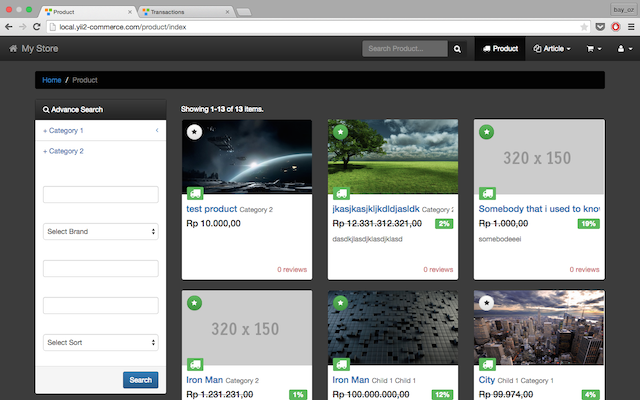
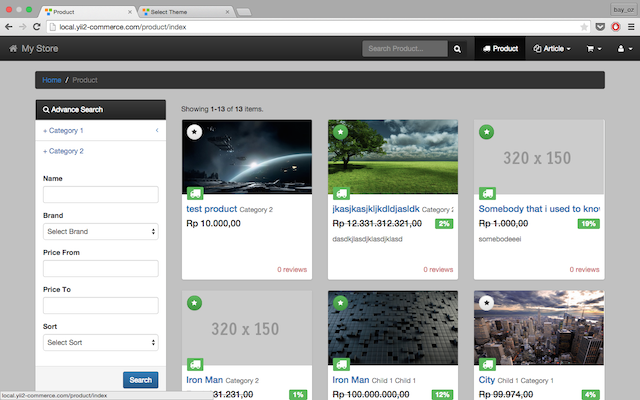
Improve Dark Theme

Changed region(s): [[0.0, 0.15, 1.0, 1.0], [0.25, 0.03, 0.2812, 0.06]]

diff --git a/frontend/themes/dark/web/css/site.css b/frontend/themes/dark/web/css/site.css
@@ -1,9 +1,8 @@
 .breadcrumb {
-    background: #000;
+    background: #333;
 }
 .wrap {
-    background: #3c3c3c;
-    color: #fff;
+    background: #c1c1c1;
     min-height: 100%;
     height: auto;
     margin: 0 auto -250px;
@@ -19,7 +18,7 @@
     color: #ddd;
 }
 .panel {
-    border: 1px solid #222;
+    border: 1px solid #bbb;
 }
 .navbar-form .btn {
     background: #222;
@@ -32,7 +31,7 @@
     color: #f5f5f5;
 }
 .thumbnail{
-    border-color: #3c3c3c;
+    border: 1px solid #bbb;
 }
 .thumbnail:hover {
     box-shadow: 0 0 15px #222;
@@ -44,23 +43,20 @@
 .thumbnail:hover .image{
     opacity: .6;
 }
-.panel-default {
-    border-color: #222;
-}
+
 .panel-default > .panel-heading {
     color: #fff;
-    background-color: #222;
-    border-color: #222;
+    border-color: #666;
 }
 .panel-default > .panel-heading + .panel-collapse > .panel-body {
-    border-top-color: #222;
+    border-top-color: #666;
 }
 .panel-default > .panel-heading .badge {
     color: #fff;
-    background-color: #222;
+    background-color: #666;
 }
 .panel-default > .panel-footer + .panel-collapse > .panel-body {
-    border-bottom-color: #222;
+    border-bottom-color: #666;
 }
 .panel-default > .panel-heading {
     background-image: -webkit-linear-gradient(top, #3c3c3c 0%, #222 100%);

diff --git a/backend/views/setting/theme.php b/backend/views/setting/theme.php
@@ -19,7 +19,7 @@ $this->params['breadcrumbs'][] = $this->title;
     }
 </style>
 <div class="row">
-    <div class="col-sm-8">
+    <div class="col-sm-10 col-lg-8">
         <h1>
             <div class="controls pull-right btn-group">
                 <a class="left fa fa-chevron-left btn btn-default" href="#theme-slider" data-slide="prev"></a>
